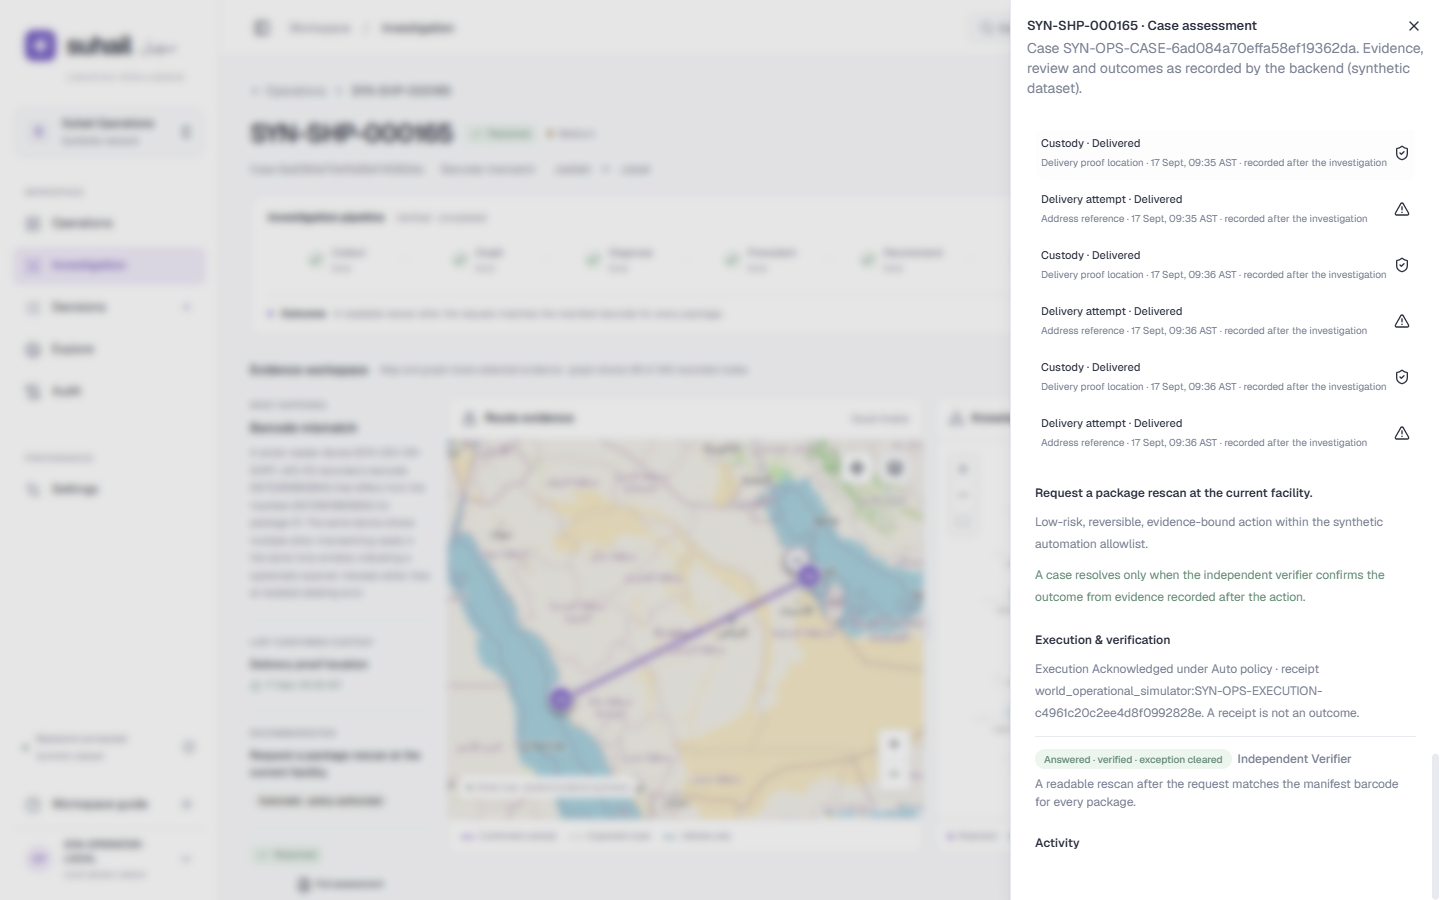
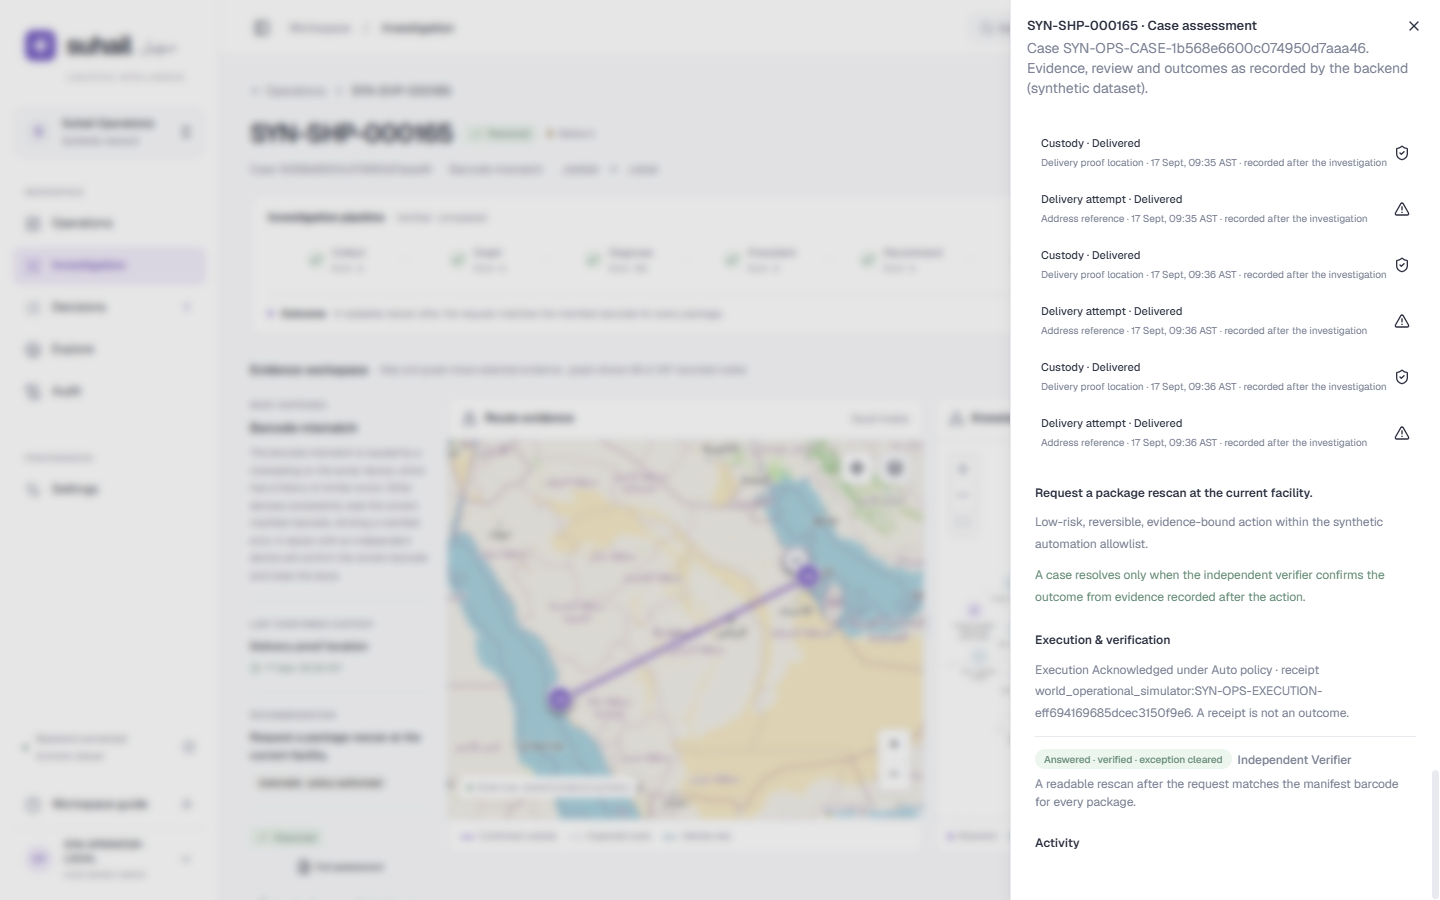
fix(frontend-next): keep the loaded diagnosis text across queue polls; an action that worked while the exception remains waits, not fails; operator actions exercised on the demo backend

diff --git a/frontend-next/tests/e2e-live/demo-operator.spec.ts b/frontend-next/tests/e2e-live/demo-operator.spec.ts
@@ -1,0 +1,110 @@
+import { expect, test, type APIRequestContext } from "@playwright/test";
+
+/**
+ * The two operator actions on the demo backend, taken from the interface: approving a
+ * recommendation the backend marks approvable, and recording a person's finding on a case that
+ * is with a person. Both write to the demo session, so they run only when handed over.
+ *
+ *   SUHAIL_LIVE_URL=http://127.0.0.1:8020 SUHAIL_LIVE_DEMO_HANDED_OVER=1 \
+ *   SUHAIL_DEMO_APPROVE=<case id> SUHAIL_DEMO_FINDING=<case id> \
+ *   npx playwright test --config playwright.live.config.ts demo-operator
+ */
+const APPROVE = process.env.SUHAIL_DEMO_APPROVE;
+const FINDING = process.env.SUHAIL_DEMO_FINDING;
+const handedOver = process.env.SUHAIL_LIVE_DEMO_HANDED_OVER === "1";
+test.setTimeout(5 * 60 * 1000);
+const shot = (name: string) => `screenshots/demo-operator-${name}.png`;
+const read = async (request: APIRequestContext, id: string) =>
+  (await (await request.get(`/cases/${id}`)).json()) as {
+    workflow_state: string;
+    shipment_id: string;
+    state_version: number;
+    recommendation: { approvable?: boolean; action_en?: string } | null;
+    executions: { status: string; authority: string; deadline_at?: string }[];
+    outcome: { verification_status: string; success: boolean | null; reason: string } | null;
+  };
+
+test("An approvable recommendation is approved from the interface", async ({ page, request }) => {
+  test.skip(!APPROVE || !handedOver, "set SUHAIL_DEMO_APPROVE and SUHAIL_LIVE_DEMO_HANDED_OVER=1");
+  const before = await read(request, APPROVE!);
+  expect(before.recommendation?.approvable).toBe(true);
+  expect(before.executions).toHaveLength(0);
+  await page.goto(`/app/cases/${APPROVE}`);
+  await expect(page.getByRole("heading", { level: 1 })).toHaveText(before.shipment_id, {
+    timeout: 60000,
+  });
+  await page.getByRole("button", { name: "Review & authorize" }).click();
+  const dialog = page.getByRole("dialog");
+  await expect(dialog).toContainText(before.recommendation!.action_en!);
+  await page.screenshot({ path: shot("1-approve-dialog") });
+  await dialog.getByRole("button", { name: "Authorize action" }).click();
+  await expect(dialog).toHaveCount(0, { timeout: 60000 });
+  await expect
+    .poll(async () => (await read(request, APPROVE!)).executions.length, { timeout: 60000 })
+    .toBeGreaterThan(0);
+  const after = await read(request, APPROVE!);
+  console.log(
+    `approved: ${before.workflow_state} v${before.state_version} -> ${after.workflow_state} v${after.state_version}; execution ${after.executions[0].status} by ${after.executions[0].authority}; deadline ${after.executions[0].deadline_at ?? "none"}`,
+  );
+  expect(after.executions[0].authority).toBe("OPERATOR_APPROVAL");
+  // The page follows the backend: no second approval is offered, and a receipt is not an outcome.
+  await expect(page.getByRole("button", { name: "Review & authorize" })).toHaveCount(0, {
+    timeout: 30000,
+  });
+  await page.waitForTimeout(3000);
+  await page.screenshot({ path: shot("2-approved"), fullPage: true });
+  await page.getByRole("button", { name: "Case details" }).click();
+  const sheet = page.getByRole("dialog");
+  await expect(sheet).toContainText(
+    after.executions[0].status === "ACKNOWLEDGED"
+      ? "A receipt is not an outcome"
+      : "nothing was carried out",
+  );
+  if (!after.outcome) await expect(sheet.getByTestId("verification-result")).toHaveCount(0);
+  await page.screenshot({ path: shot("3-approved-assessment") });
+});
+
+test("A person's finding is recorded from the interface", async ({ page, request }) => {
+  test.skip(!FINDING || !handedOver, "set SUHAIL_DEMO_FINDING and SUHAIL_LIVE_DEMO_HANDED_OVER=1");
+  const before = await read(request, FINDING!);
+  expect(before.workflow_state).toBe("HUMAN_REVIEW");
+  await page.goto(`/app/cases/${FINDING}`);
+  await expect(page.getByRole("heading", { level: 1 })).toHaveText(before.shipment_id, {
+    timeout: 60000,
+  });
+  await page.getByRole("button", { name: "Record a person's finding" }).click();
+  const dialog = page.getByRole("dialog");
+  await dialog.getByRole("combobox", { name: "Human outcome type" }).click();
+  await page.getByRole("option", { name: "Parcel not found" }).click();
+  await dialog
+    .getByLabel("Finding")
+    .fill("Interface test entry on synthetic data: no physical check was made; parcel not found.");
+  await dialog.locator(".human-evidence [role=checkbox]").first().click();
+  await page.screenshot({ path: shot("4-finding-dialog") });
+  await dialog.getByRole("button", { name: "Record finding" }).click();
+  // Either the backend accepts it and the dialog closes, or its refusal is shown verbatim.
+  const refusal = dialog.getByRole("alert");
+  await expect(dialog.or(refusal).first()).toBeVisible();
+  await Promise.race([
+    expect(dialog).toHaveCount(0, { timeout: 60000 }),
+    expect(refusal).toBeVisible({ timeout: 60000 }),
+  ]);
+  const after = await read(request, FINDING!);
+  if (await refusal.isVisible().catch(() => false)) {
+    console.log(`finding refused by the backend: ${await refusal.innerText()}`);
+    await page.screenshot({ path: shot("5-finding-refused") });
+    expect(after.state_version).toBe(before.state_version);
+    return;
+  }
+  console.log(
+    `finding recorded: ${after.workflow_state} v${after.state_version}; outcome ${after.outcome?.verification_status} success ${after.outcome?.success}`,
+  );
+  expect(after.outcome?.verification_status).toMatch(/^HUMAN_/);
+  // A parcel that was not found never resolves the case.
+  expect(after.workflow_state).not.toBe("RESOLVED");
+  await page.getByRole("button", { name: "Case details" }).click();
+  const verification = page.getByRole("dialog").getByTestId("verification-result");
+  await verification.scrollIntoViewIfNeeded();
+  await expect(verification).toContainText("Finding on record · not resolved");
+  await page.screenshot({ path: shot("5-finding-recorded") });
+});

diff --git a/frontend-next/src/pages/investigation.tsx b/frontend-next/src/pages/investigation.tsx
@@ -508,10 +508,13 @@ export function InvestigationPage() {
                   ? c.status === "escalated" ||
                     // The authorized action was not carried out.
                     (i === 6 && !!c.backend && !!c.execution && !c.execution.successful) ||
-                    // The verifier checked and did not confirm the fix.
+                    // The verifier checked and did not confirm the fix. An action that
+                    // worked while the exception remains is not a failed check: it waits.
                     (i === 7 &&
                       !!c.backend?.verification &&
-                      c.backend.verification.result !== "confirmed")
+                      !["confirmed", "exception_remains"].includes(
+                        c.backend.verification.result,
+                      ))
                     ? "failed"
                     : ["human_review", "needs_evidence"].includes(c.status)
                       ? "waiting"

diff --git a/frontend-next/tests/e2e-live/demo-stories.spec.ts b/frontend-next/tests/e2e-live/demo-stories.spec.ts
@@ -62,6 +62,11 @@ for (const id of CASES)
       await expect(page.locator(".pipeline-meta")).toContainText(
         execution.expected_response_at ? "an answer is scheduled for" : "answer expected by",
       );
+    // An action that worked while the exception remains is not shown as a failed check.
+    if (outcome?.success === true && outcome.exception_cleared === false) {
+      await expect(page.locator(".pipeline-meta")).toContainText("the exception remains");
+      await expect(page.getByRole("button", { name: /^Outcome · waiting/ })).toBeVisible();
+    }
     await page.waitForTimeout(1500);
     const name = `${detail.shipment_id.slice(-3)}-${String(detail.workflow_state).toLowerCase()}`;
     await page.screenshot({ path: `screenshots/story-${name}.png`, fullPage: true });

diff --git a/frontend-next/src/api/adapters.ts b/frontend-next/src/api/adapters.ts
@@ -255,7 +255,15 @@ export function caseFromQueue(
         : allowedFor(row.workflow_state, false),
     },
   };
-  if (keep) base.diagnosis = keep.diagnosis;
+  if (keep) {
+    // The loaded detail's own diagnosis describes the case; the queue row's one-line summary
+    // (the leading hypothesis's assessment) must not replace it between polls.
+    base.diagnosis = keep.diagnosis;
+    if (row.diagnosis_available && keep.backend?.diagnosisAvailable) {
+      base.summary = keep.summary;
+      base.issue = keep.issue;
+    }
+  }
   return base;
 }
 

diff --git a/frontend-next/tests/e2e-live/demo-first-case.spec.ts b/frontend-next/tests/e2e-live/demo-first-case.spec.ts
@@ -68,7 +68,7 @@ test("Every stage of a completed lifecycle is displayed as the backend recorded 
   const cleared = outcome.success === true && outcome.exception_cleared !== false;
   await expect(
     page.getByRole("button", {
-      name: new RegExp(`^Outcome · ${cleared ? "completed" : "failed"}`),
+      name: new RegExp(`^Outcome · ${cleared ? "completed" : outcome.success ? "waiting" : "failed"}`),
     }),
   ).toBeVisible();
   await page.getByRole("button", { name: /^Outcome ·/ }).click();

diff --git a/docs/agent-runs/2026-10-11_ui-curated-session.md b/docs/agent-runs/2026-10-11_ui-curated-session.md
@@ -1,0 +1,68 @@
+# Redesigned UI on the curated demo session (11 October 2026)
+
+URL: `http://127.0.0.1:8020/app/` (Stage 4 backend, session `SYN-OPS-SESSION-a573e17a73e408a3b9d7c57c`,
+8 curated shipments, real GPT-OSS). A case opens at `/app/cases/<case id>`. All data is synthetic and
+every execution is the backend's simulator, not an SPL system.
+
+## What was checked, and how
+
+Each of the 8 cases was opened in a browser and compared with `GET /cases/{id}` (read-only). Two
+operator actions were then taken from the interface.
+
+| Shipment | Backend record | In the interface | Investigation time shown |
+| --- | --- | --- | --- |
+| `SYN-SHP-000165` | Barcode mismatch, automatic rescan, verified, exception cleared, resolved | "Answered · verified · exception cleared"; in the Resolved queue | 48.7 s, first conclusion 32.0 s |
+| `SYN-SHP-000232` | Hub delay, automatic hub check, verified success, milestone still overdue | "Action verified · the exception remains · with a person"; Outcome stage waiting | 76.4 s |
+| `SYN-SHP-000359` | Delayed sync, approved by the backend session, not acknowledged | "The request could not be delivered · nothing carried out"; no outcome | 73.5 s |
+| `SYN-SHP-000416` | Proof insufficient, dispute for a person, not approvable | No approve control; a person's finding recorded from the interface (below) | 63.9 s |
+| `SYN-SHP-000104` | Custody gap, evidence request, approvable | Approved from the interface (below) | 138.1 s |
+| `SYN-SHP-000135`, `SYN-SHP-000093` | Reviewer asked for revision, escalated | Findings labelled "not accepted by the reviewer"; no diagnosis presented | 56.7 s, 54.9 s |
+| `SYN-SHP-000279` | Model degraded after 14 calls, no conclusion | "The model's reply could not be used · no diagnosis · with a person" | 90.9 s |
+
+Times are the backend's own `run.result.latency`; the rail shows seconds per stage.
+
+### Approval from the interface (`SYN-SHP-000104`)
+
+"Review & authorize", then "Authorize action". The backend moved the case from human review to
+awaiting outcome and recorded an execution acknowledged under operator approval. The page then
+read "Request delivered · an answer is scheduled for 18 Sept 2026 · 16:23 AST", offered no second
+approval, and showed no outcome. Screens: `frontend-next/screenshots/demo-operator-1..3-*.png`.
+
+### A person's finding from the interface (`SYN-SHP-000416`)
+
+"Record a person's finding", type "Parcel not found", one cited record, and a text stating it was
+an interface test with no physical check. The backend recorded a human finding with success false
+and escalated the case; it did not resolve. The page shows "Finding on record · not resolved".
+Screens: `demo-operator-4-finding-dialog.png`, `demo-operator-5-finding-recorded.png`.
+
+## What rendered wrongly, and the fixes
+
+1. **The case description changed after a few seconds.** On `SYN-SHP-000104` the "What happened"
+   text switched from the diagnosis summary to the leading hypothesis's assessment, because the
+   queue row serves a different one-line summary than the case detail. The loaded diagnosis now
+   stays. The backend serving two different summaries is reported to the backend session.
+2. **An action that worked was marked failed.** On `SYN-SHP-000232` the Outcome stage showed a red
+   "Failed" although the verifier confirmed the action and only the exception remains. It now
+   shows as waiting, with the same header sentence.
+
+## Not seen against real data
+
+| State | Why |
+| --- | --- |
+| "Model reply invalid, retrying" | No repair event was recorded on any of the 8 cases |
+| "Delivered · no answer by the deadline" | No case has reached its deadline unanswered |
+| Live arrivals in order with running elapsed time | All 8 cases were already investigated when the session was handed over |
+| A case of my own reaching a verified outcome | `SYN-SHP-000104`'s answer is scheduled, not yet arrived |
+
+These are covered by unit tests only.
+
+## Still open
+
+Clock control in the interface; request evidence, reopen and re-analyse controls; cited records
+from other shipments are counted but not drawn; the first queue read takes several seconds.
+
+## Checks at this commit
+
+TypeScript and lint clean; 53 unit tests; 9 connected browser tests (scripted stand-in); 9
+read-only checks and 2 operator actions on the demo backend. The 20 lab browser tests last ran at
+`164f2e7`; the changes since touch only connected-mode code.
